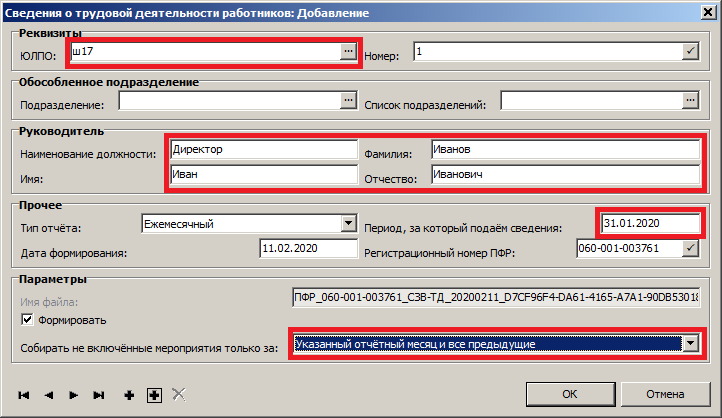
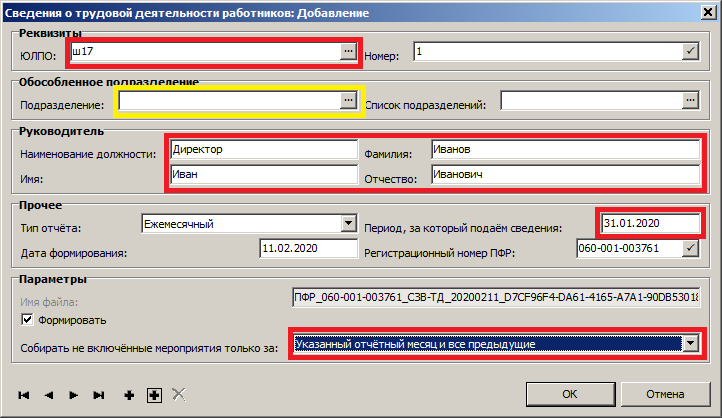
Обособленное подразделение

Changed region(s): [[0.1524, 0.1866, 0.518, 0.2799]]

diff --git a/docs/etk.md b/docs/etk.md
@@ -19,6 +19,8 @@
 
 ![Добавление](images/sved_o_trud_deyat.png)
 
+> _Поле **Подразделение** в группе **Обособленное подразделение** должно быть пустым._
+
 3. Выберите ЮЛПО (ваше учреждение) из словаря.
 4. Заполните наименование должности и ФИО руководителя.
 5. Укажите `последний день месяца` периода, за который подаются сведения.
